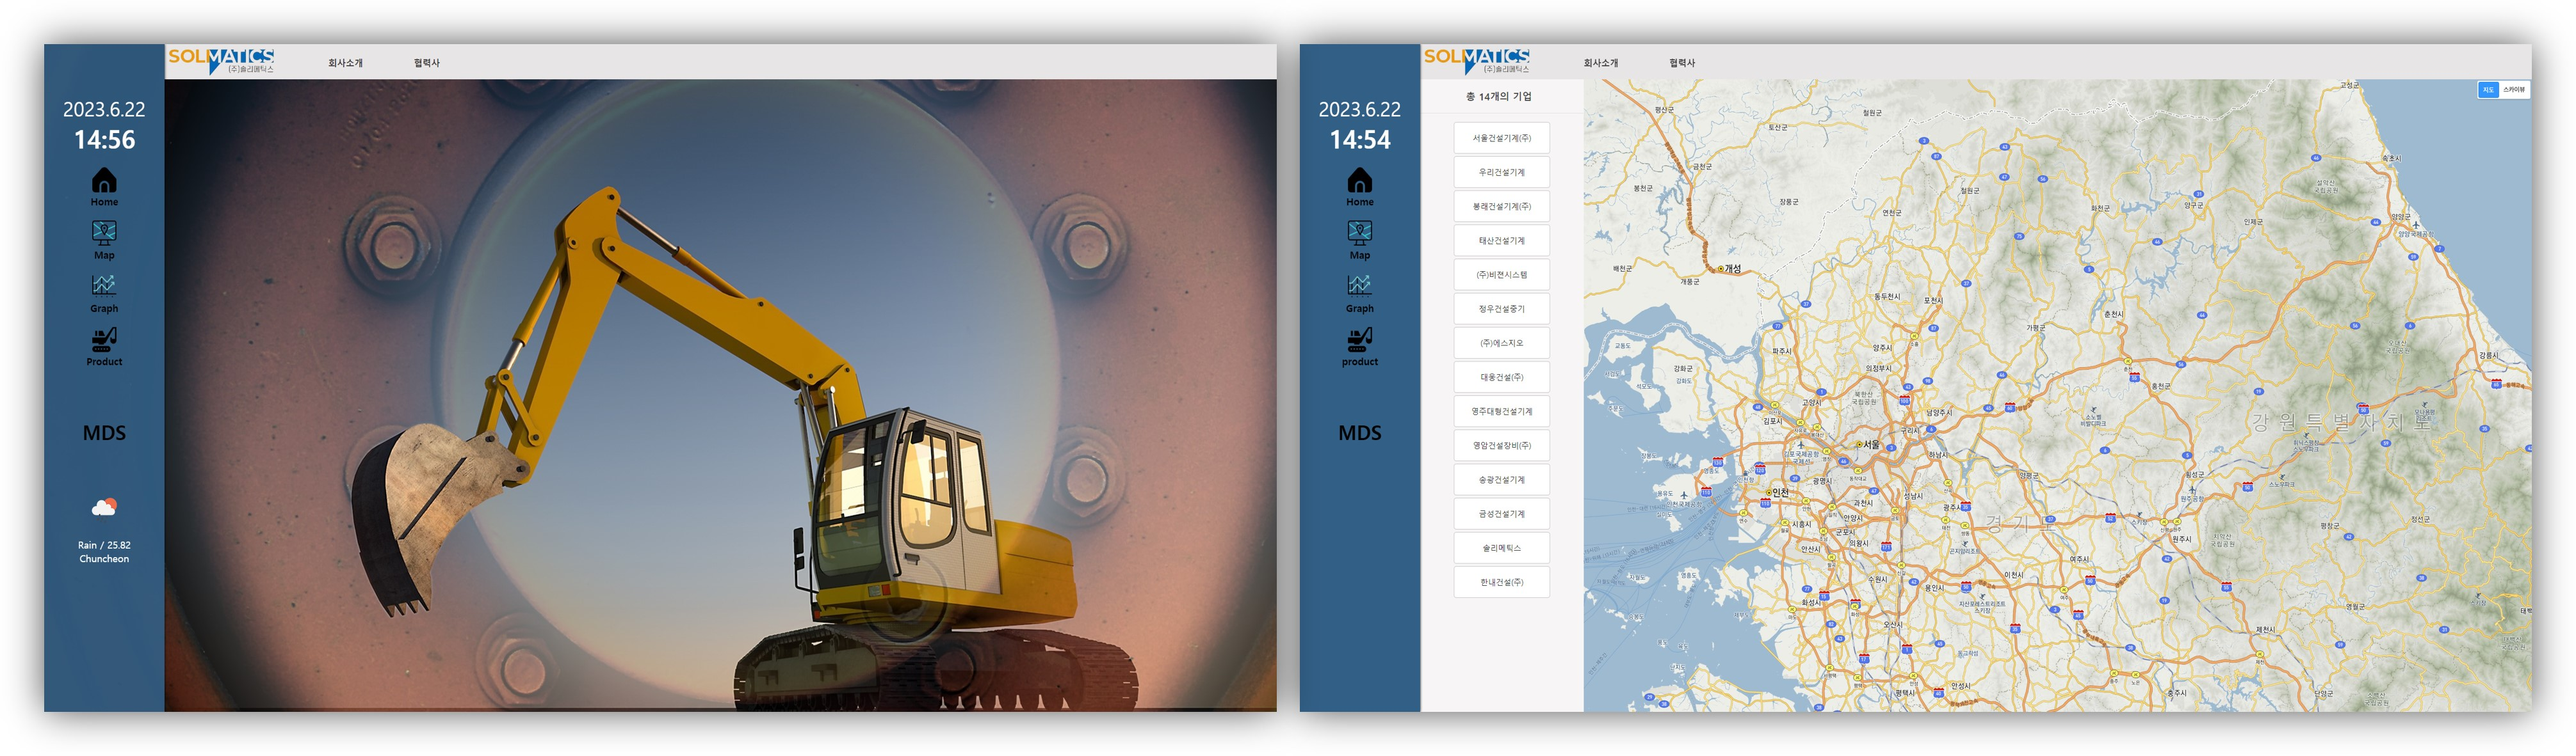
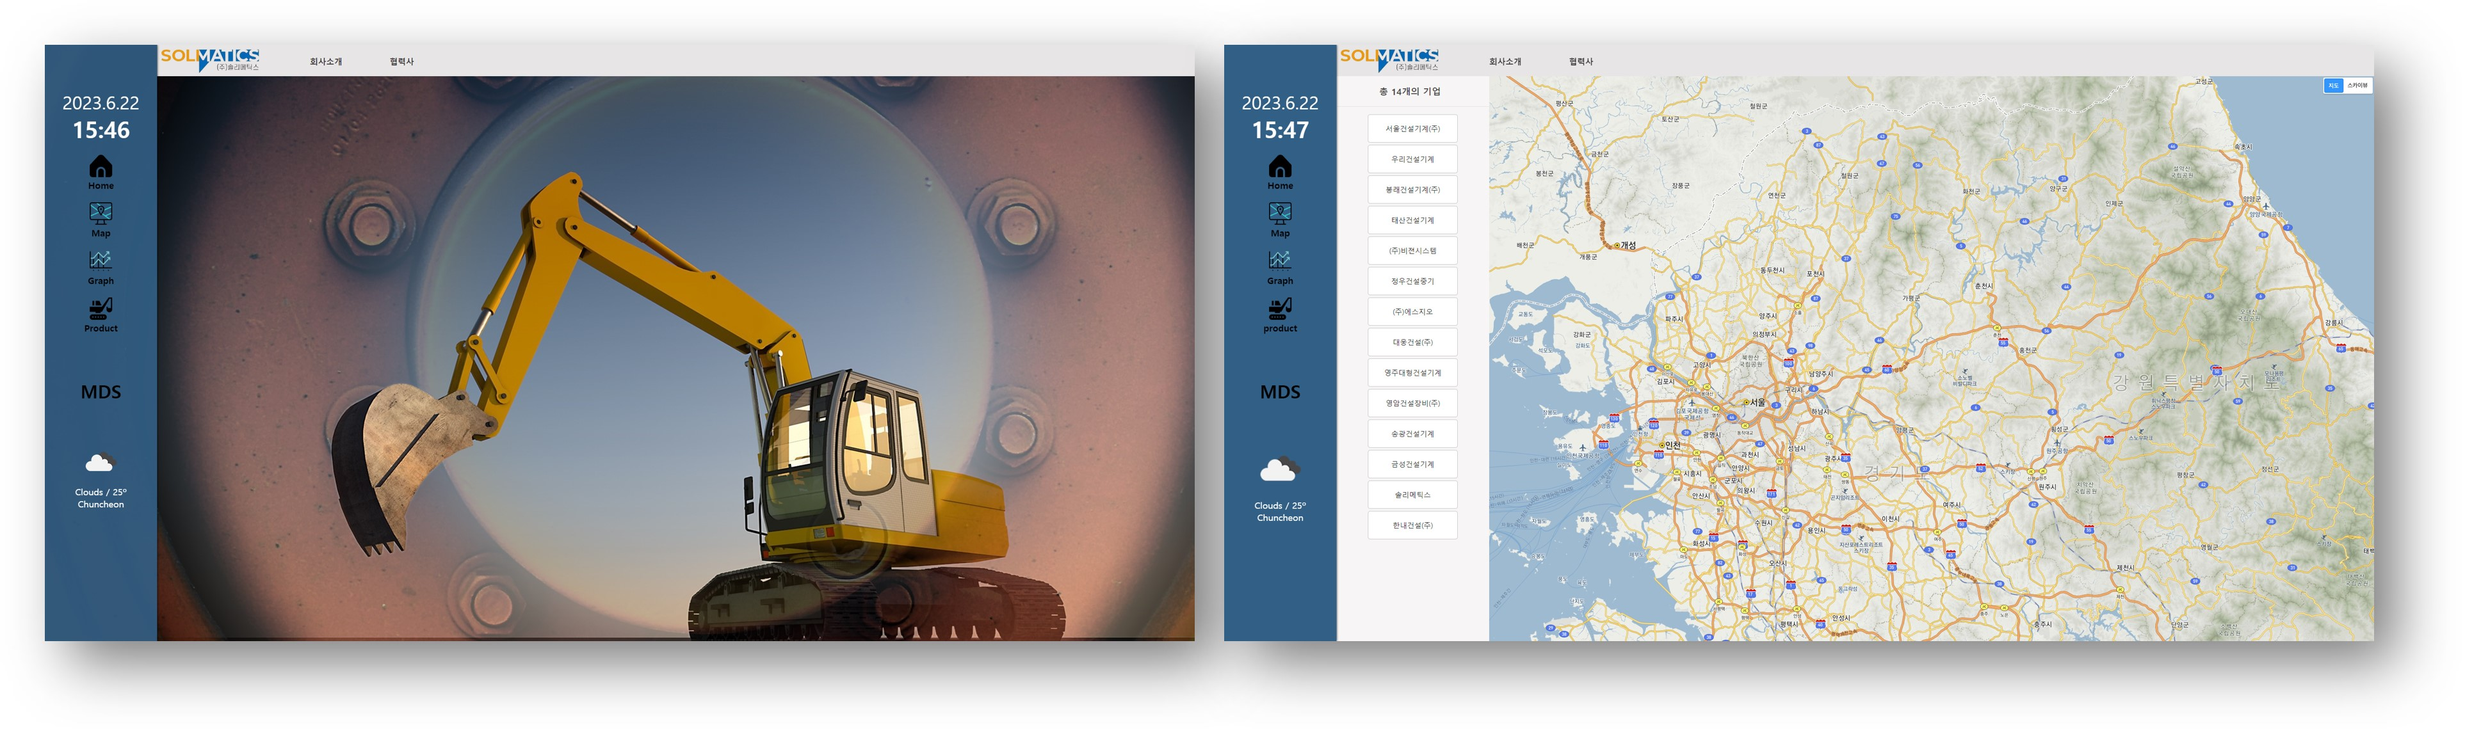
Temparature Integer

diff --git a/js/graph.js b/js/graph.js
@@ -673,7 +673,7 @@ function onGeoOk(position){
               const weather = document.querySelector("#weatherToday1"); 
               const city = document.querySelector("#weatherToday2");
               city.innerText = data.name;
-              weather.innerText = `${data.weather[0].main} / ${data.main.temp}`;
+              weather.innerText = `${data.weather[0].main} / ${parseInt(data.main.temp)}º`;
               console.log(data);
     });
 }

diff --git a/js/map.js b/js/map.js
@@ -137,7 +137,7 @@ function onGeoOk(position){
               const weather = document.querySelector("#weatherToday1"); 
               const city = document.querySelector("#weatherToday2");
               city.innerText = data.name;
-              weather.innerText = `${data.weather[0].main} / ${data.main.temp}`;
+              weather.innerText = `${data.weather[0].main} / ${parseInt(data.main.temp)}º`;
               console.log(data);
     });
 }

diff --git a/js/index.js b/js/index.js
@@ -39,7 +39,7 @@ function onGeoOk(position){
               const weather = document.querySelector("#weatherToday1"); 
               const city = document.querySelector("#weatherToday2");
               city.innerText = data.name;
-              weather.innerText = `${data.weather[0].main} / ${data.main.temp}`;
+              weather.innerText = `${data.weather[0].main} / ${parseInt(data.main.temp)}º`;
               console.log(data);
     });
 }

diff --git a/js/intro.js b/js/intro.js
@@ -60,7 +60,7 @@ function onGeoOk(position){
               const weather = document.querySelector("#weatherToday1"); 
               const city = document.querySelector("#weatherToday2");
               city.innerText = data.name;
-              weather.innerText = `${data.weather[0].main} / ${data.main.temp}`;
+              weather.innerText = `${data.weather[0].main} / ${parseInt(data.main.temp)}º`;
               console.log(data);
     });
 }

diff --git a/js/product.js b/js/product.js
@@ -44,7 +44,7 @@ function onGeoOk(position){
               const weather = document.querySelector("#weatherToday1"); 
               const city = document.querySelector("#weatherToday2");
               city.innerText = data.name;
-              weather.innerText = `${data.weather[0].main} / ${data.main.temp}`;
+              weather.innerText = `${data.weather[0].main} / ${parseInt(data.main.temp)}º`;
               console.log(data);
     });
 }

diff --git a/intro.html b/intro.html
@@ -13,7 +13,7 @@
 
     <title>Smart Dashboard</title>
     <link rel="stylesheet" href="css/intro.css">
-    <script type="text/javascript" src="//dapi.kakao.com/v2/maps/sdk.js?appkey=26f2888fc97b6f8dc72676ac67a9289d"></script>
+    <script type="text/javascript" src="//dapi.kakao.com/v2/maps/sdk.js?appkey=571f7c7747510202bfe340f0106df41a"></script>
 </head>
 
 <body>
